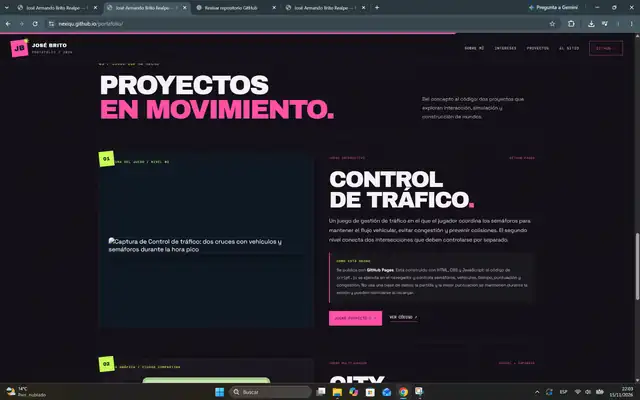
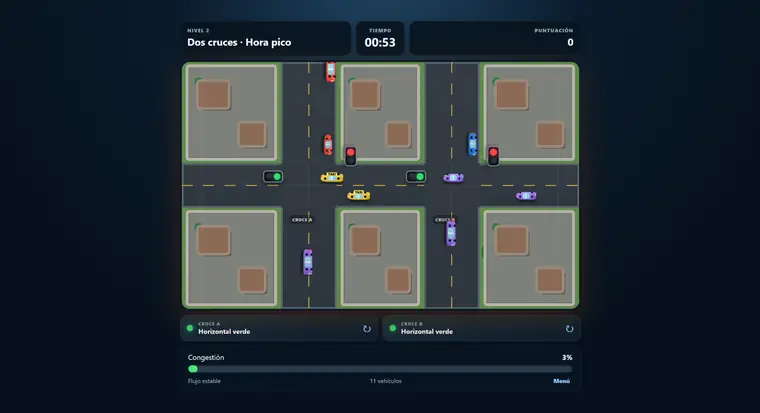
Replace incorrect preview with actual traffic game screenshot

diff --git a/index.html b/index.html
@@ -54,7 +54,7 @@
 <section class="section wrap" id="projects">
 <div class="projects-head reveal"><div><span class="index">03 / COSAS QUE HE HECHO</span><h2 class="site-title">PROYECTOS<br><em>EN MOVIMIENTO.</em></h2></div><p>Del concepto al código: dos proyectos que exploran interacción, simulación y construcción de mundos.</p></div>
 <article class="project reveal">
-<div class="project-no">01</div><div class="preview traffic-preview"><span class="preview-cap">CAPTURA DEL JUEGO / NIVEL 02</span><img class="traffic-screenshot" src="images/control-trafico.webp?v=2" alt="Captura de Control de tráfico: dos cruces con vehículos y semáforos durante la hora pico" loading="lazy"></div>
+<div class="project-no">01</div><div class="preview traffic-preview"><span class="preview-cap">CAPTURA DEL JUEGO / NIVEL 02</span><img class="traffic-screenshot" src="images/control-trafico.webp?v=3" alt="Captura de Control de tráfico: dos cruces con vehículos y semáforos durante la hora pico" loading="lazy"></div>
 <div class="project-info"><div class="meta"><span>JUEGO INTERACTIVO</span><span>GITHUB PAGES</span></div><h3>CONTROL<br>DE TRÁFICO<span>.</span></h3><p class="summary">Un juego de gestión de tráfico en el que el jugador coordina los semáforos para mantener el flujo vehicular, evitar congestión y prevenir colisiones. El segundo nivel conecta dos intersecciones que deben controlarse por separado.</p><div class="tech"><b>CÓMO ESTÁ HECHO</b><p>Se publica con <strong>GitHub Pages</strong>. Está construido con HTML, CSS y JavaScript: el código de <code>script.js</code> se ejecuta en el navegador y controla semáforos, vehículos, tiempo, puntuación y congestión. No usa una base de datos; la partida y la mejor puntuación se mantienen durante la sesión y pueden reiniciarse al recargar.</p></div><div class="project-actions"><a class="btn" href="https://nexiqu.github.io/proyecto1/" target="_blank" rel="noopener noreferrer">JUGAR PROYECTO 1 ↗</a><a class="link" href="https://github.com/nexiqu/proyecto1" target="_blank" rel="noopener noreferrer">VER CÓDIGO ↗</a></div></div>
 </article>
 <article class="project reveal">
